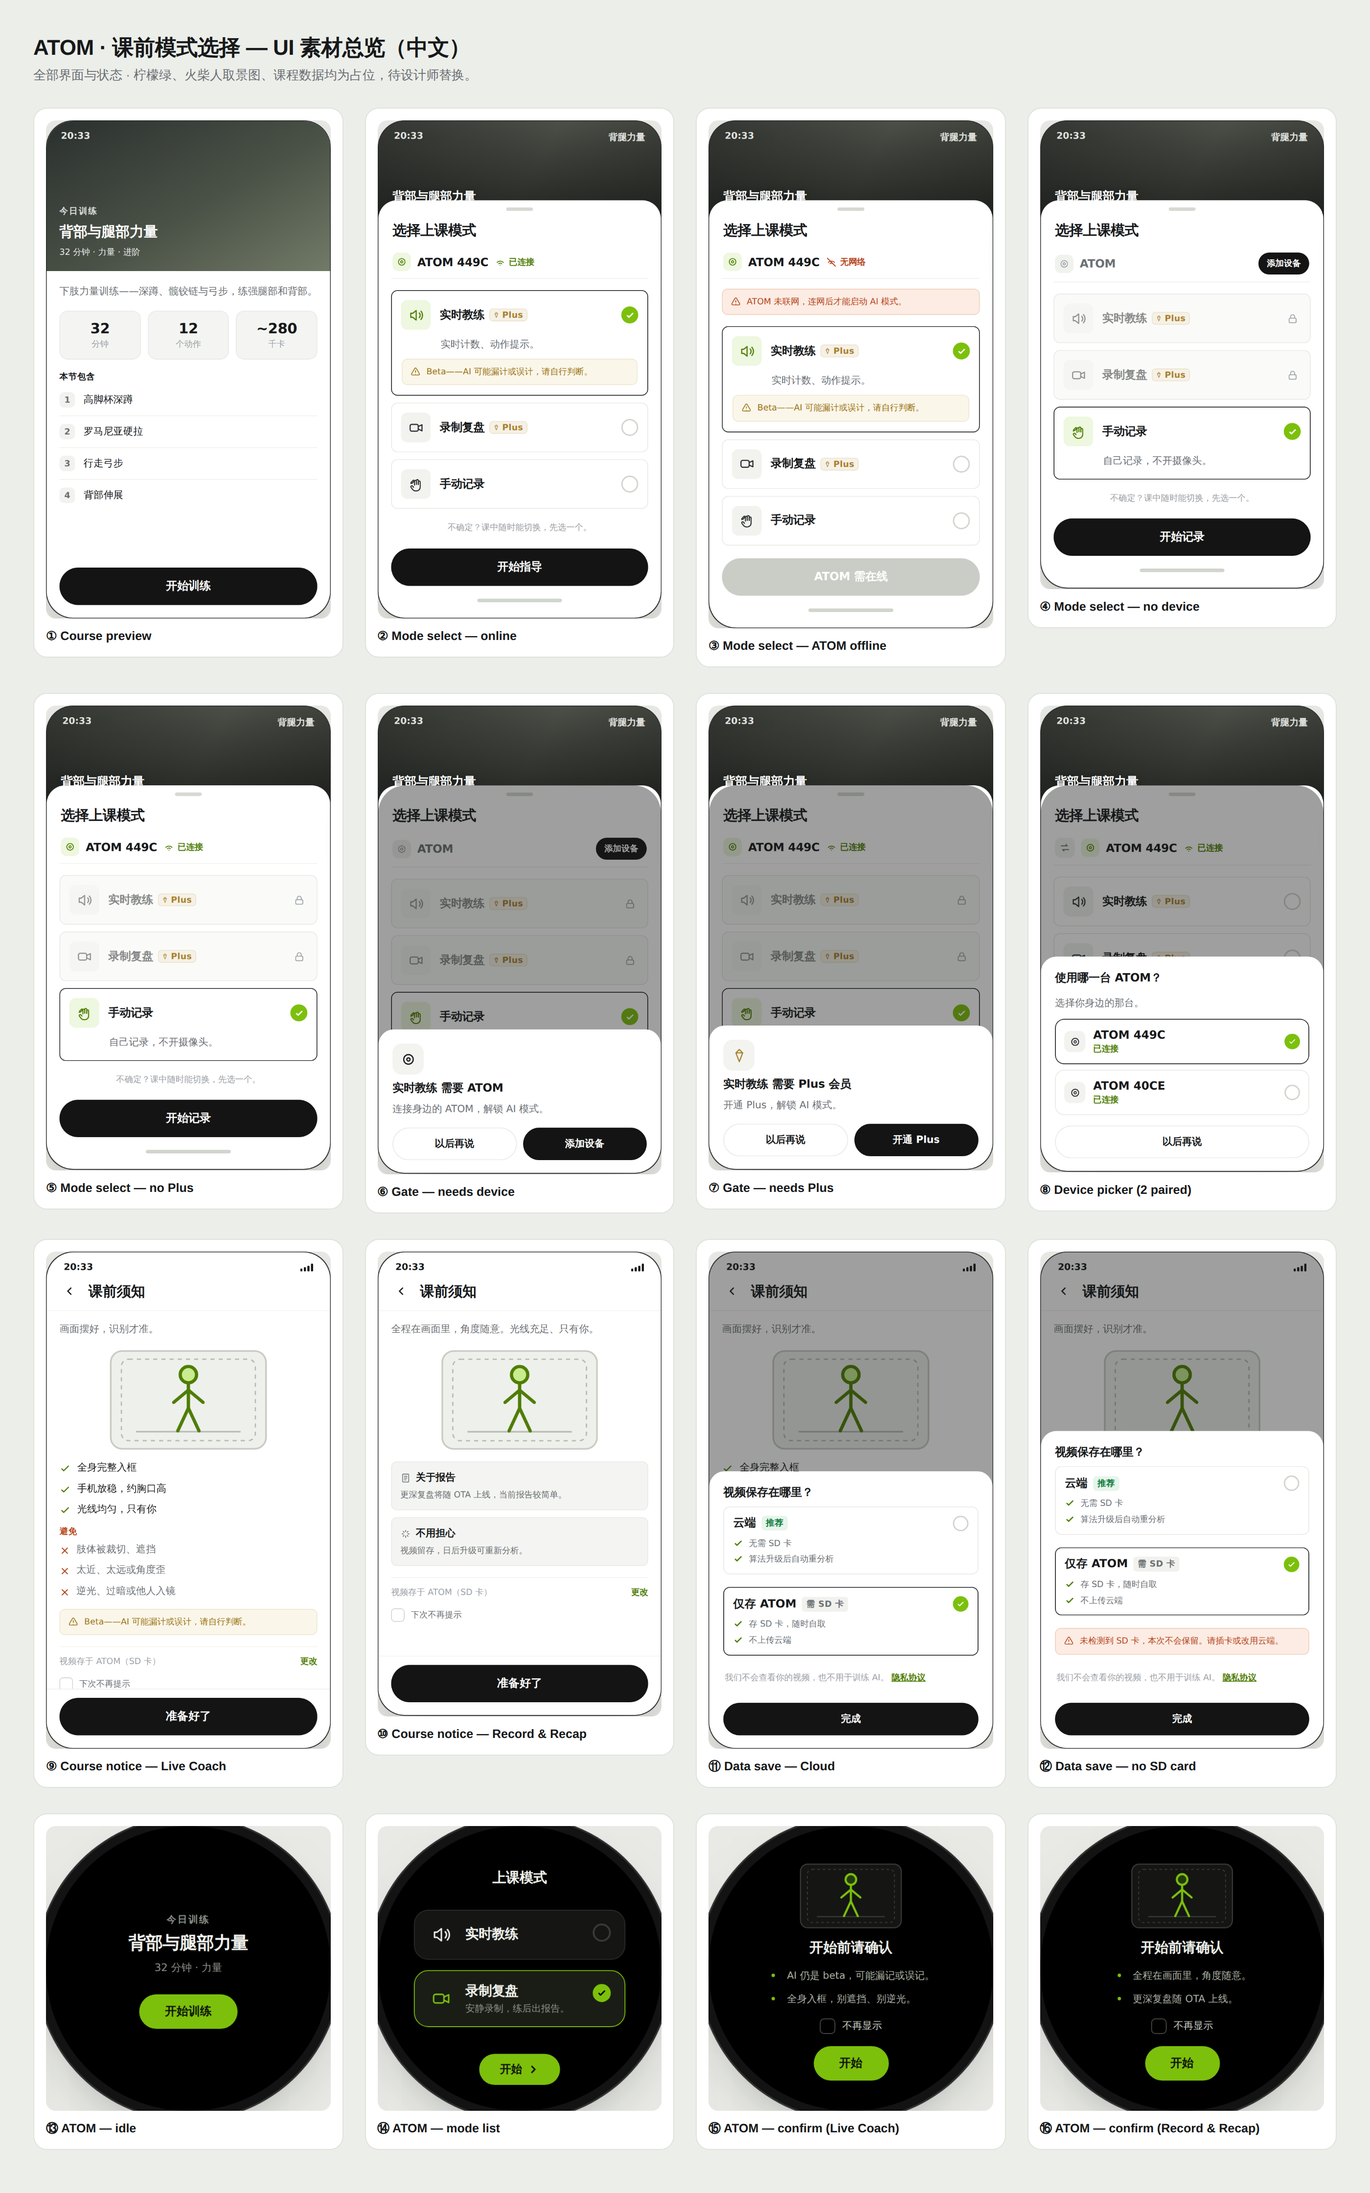
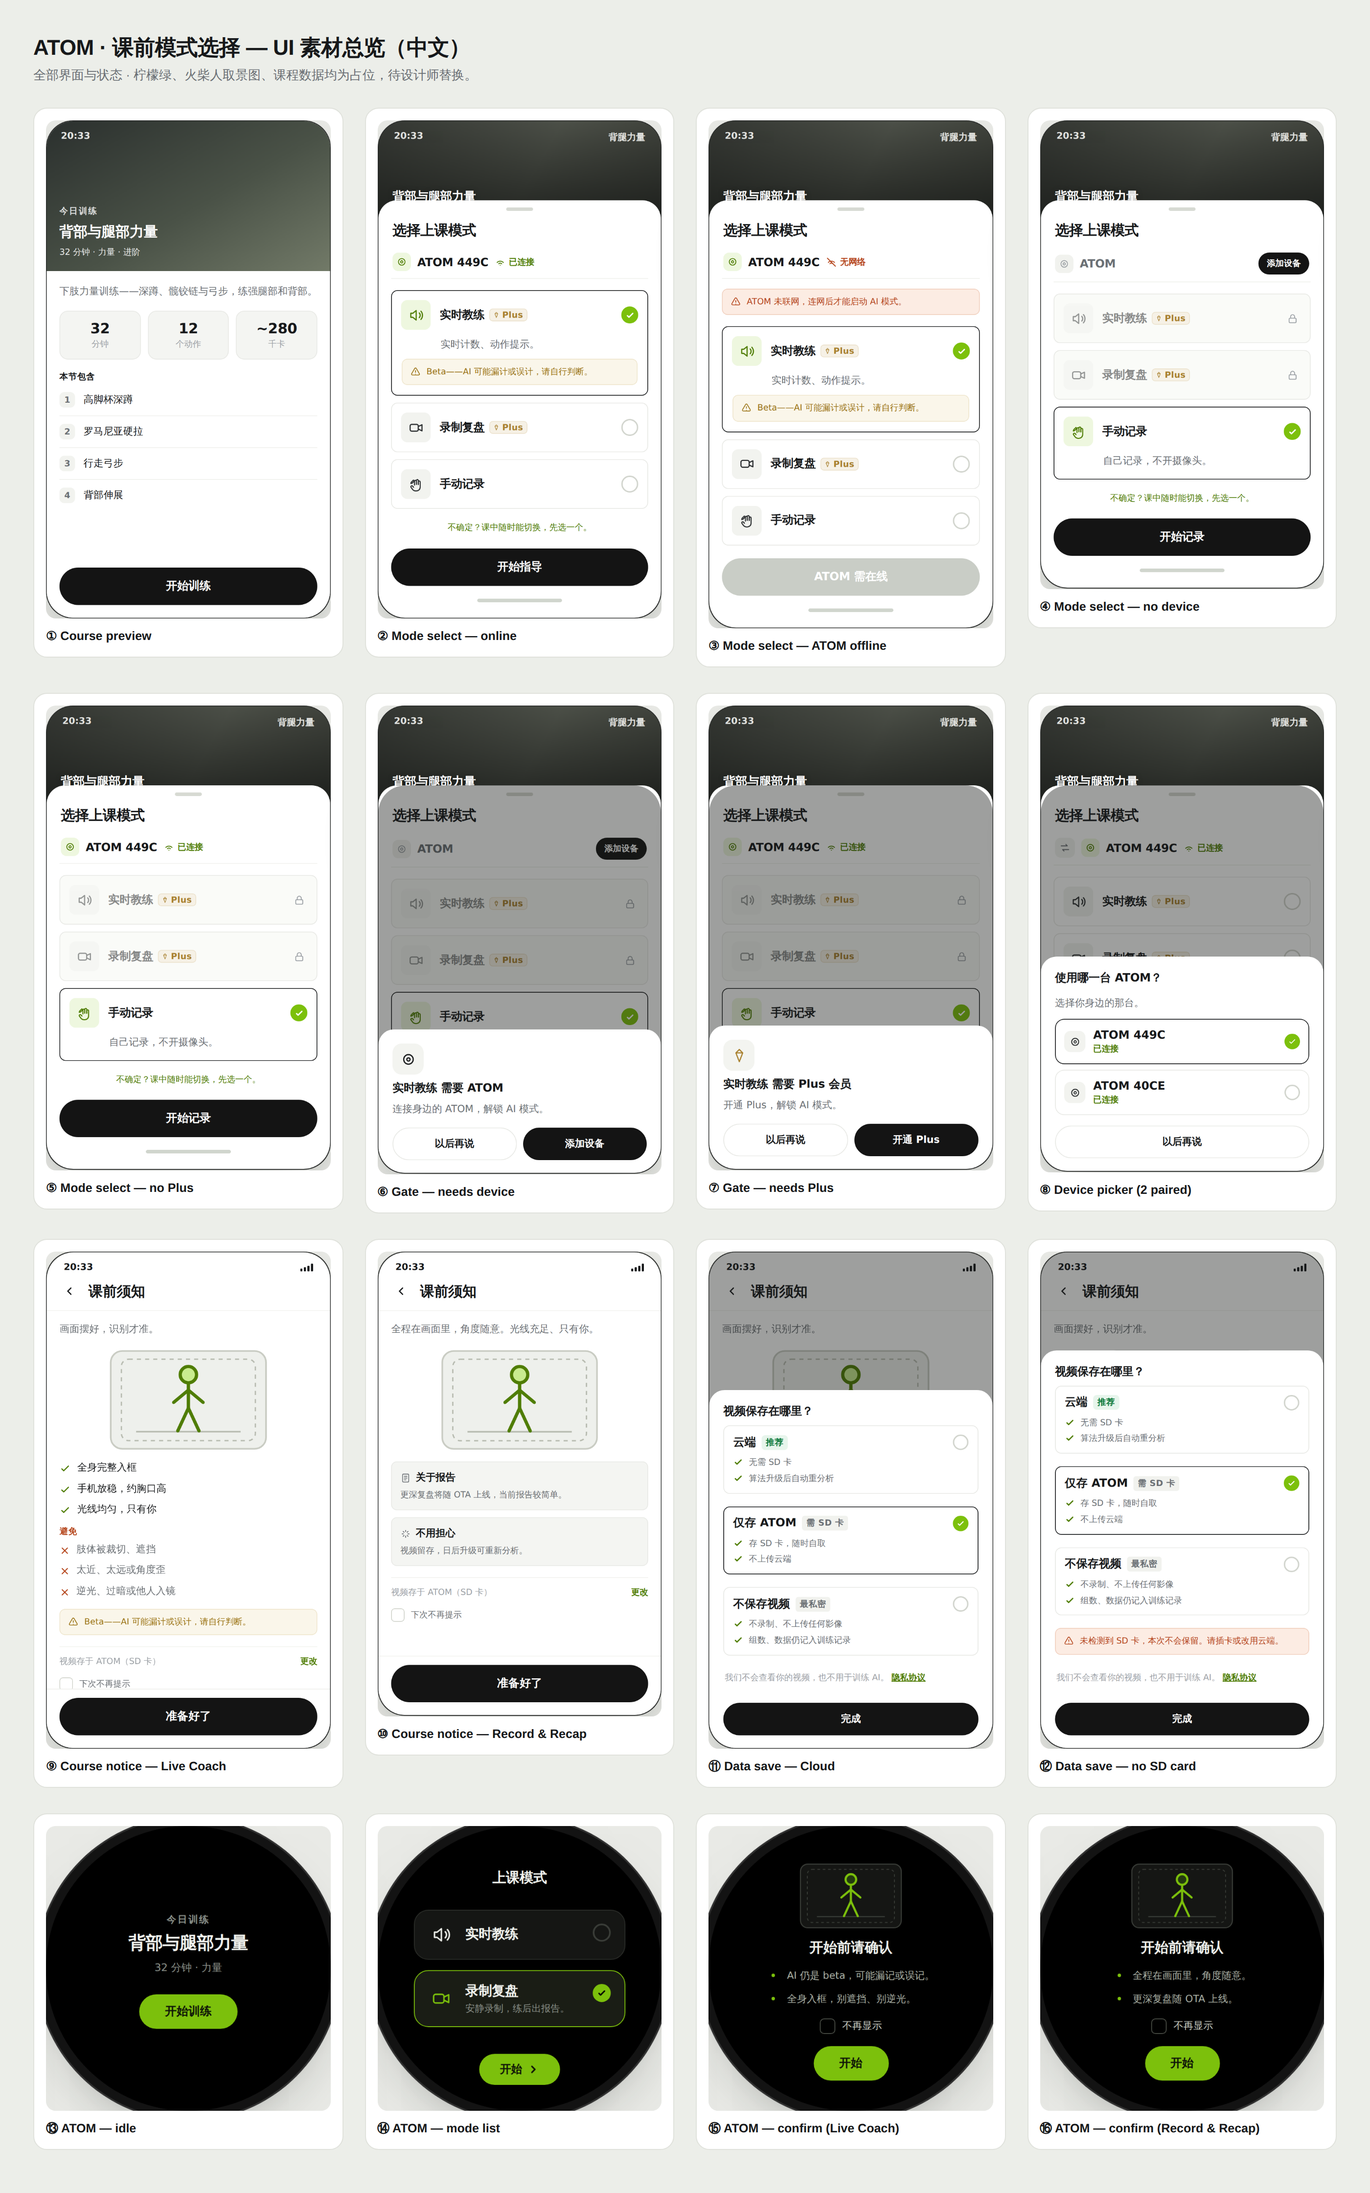
Add "Don't save video" data option (privacy ladder) + refresh spec
- Third data-save option "Don't save video / 不保存视频" (Most private):
  nothing recorded or uploaded; reps & stats are still logged. Privacy
  ladder: Cloud → Keep on ATOM → Don't save.
- Mode-aware: in Record & Recap, choosing it shows a caveat ("no recap
  report — use Live Coach for pure real-time") and the notice's report/algo
  reassurance collapses to that caveat. Applied to all 3 prototypes.
- PRD documents the option + the open question (keep in Recap w/ caveat vs
  Live-Coach-only). Regenerated UI spec sheets (EN/ZH).

Claude-Session: https://claude.ai/code/session_014PR3u6XwyoxidkFV3YCNB7

Changed region(s): [[0.4971, 0.5935, 0.9632, 0.7497], [0.9321, 0.6872, 0.9632, 0.7184]]

diff --git a/workout-mode-selection/prototype-demo.html b/workout-mode-selection/prototype-demo.html
@@ -541,6 +541,10 @@
       dLocalNeedsSd:'Needs SD card',
       dCloudBenefits:['No SD card needed','Auto re-analyzed as AI improves'],
       dLocalBenefits:['On the SD card — copy off anytime','Not uploaded'],
+      dNoneName:'Don’t save video', dNonePrivate:'Most private',
+      dNoneBenefits:['Nothing is recorded or uploaded','Your reps & stats are still logged'],
+      drNone:'Video isn’t saved — real-time only',
+      recapNoReport:'No recap report without a saved video — use Live Coach for pure real-time.',
       privacyNote:"We don't view your videos or use your data to train our AI.",
       privacyLink:'Privacy Policy',
       drCloud:'Saved to your cloud', drLocal:'Saved on ATOM (SD card)', drNoSd:"Won't be saved — no SD card",
@@ -584,6 +588,10 @@
       dLocalNeedsSd:'需 SD 卡',
       dCloudBenefits:['无需 SD 卡','算法升级后自动重分析'],
       dLocalBenefits:['存 SD 卡，随时自取','不上传云端'],
+      dNoneName:'不保存视频', dNonePrivate:'最私密',
+      dNoneBenefits:['不录制、不上传任何影像','组数、数据仍记入训练记录'],
+      drNone:'不保存视频（仅实时）',
+      recapNoReport:'不保存视频就没有复盘报告；想要纯实时可用 Live Coach。',
       privacyNote:'我们不会查看你的视频，也不用于训练 AI。',
       privacyLink:'隐私协议',
       drCloud:'视频同步到云端', drLocal:'视频存于 ATOM（SD 卡）', drNoSd:'不会保存——无 SD 卡',
@@ -686,7 +694,7 @@
   function _info(icon,h,txt){ return '<div class="infobox"><div class="ih">'+icon+'<span>'+h+'</span></div><span>'+txt+'</span></div>'; }
   function _datarow(t){
     var warn=dataChoice==='local'&&!SDCARD, txt;
-    if(dataChoice==='cloud') txt=t.drCloud; else if(SDCARD) txt=t.drLocal; else txt=t.drNoSd;
+    if(dataChoice==='cloud') txt=t.drCloud; else if(dataChoice==='none') txt=t.drNone; else if(SDCARD) txt=t.drLocal; else txt=t.drNoSd;
     return '<div class="dataline'+(warn?' warn':'')+'" id="ps-datarow"><span>'+txt+'</span><span class="drchange">'+t.drChange+'</span></div>';
   }
   function _dontrow(t){ return '<div class="dontrow'+(psSkip?' on':'')+'" id="ps-dont"><span class="box">'+CHKM+'</span><span>'+t.dontShow+'</span></div>'; }
@@ -702,9 +710,9 @@
         +_sec(t.coachAvoidH,true)+_avoid(t.coachAvoid)
         +'<div class="caution" style="margin-top:14px">'+WARNI+'<span>'+t.beta+'</span></div>';
     } else {
-      h+='<div class="pagesub">'+t.recapSub+'</div>'+FRAME_LIGHT
-        +_info(REPORTI,t.reportH,t.report)
-        +_info(ALGOI,t.algoH,t.algo);
+      h+='<div class="pagesub">'+t.recapSub+'</div>'+FRAME_LIGHT;
+      if(dataChoice==='none') h+=_info(REPORTI,t.reportH,t.recapNoReport);
+      else h+=_info(REPORTI,t.reportH,t.report)+_info(ALGOI,t.algoH,t.algo);
     }
     h+=_datarow(t)+_dontrow(t);
     psBody.innerHTML=h; prestart.classList.add('show'); if(!keep) psBody.scrollTop=0;
@@ -718,6 +726,8 @@
   var datasheet=document.getElementById('datasheet'), dsCard=document.getElementById('datasheet-card');
   function openDataSheet(){
     var t=T[LANG]; var warn=dataChoice==='local'&&!SDCARD;
+    var selM=sheet.querySelector('.mode.sel'); var mode=selM?selM.getAttribute('data-mode'):'coach';
+    var noReport=dataChoice==='none'&&mode==='recap';
     function card(key,name,rec,badge,benefits){
       var s=dataChoice===key;
       var lis=benefits.map(function(x){return '<li>'+CHKM+'<span>'+x+'</span></li>';}).join('');
@@ -727,7 +737,9 @@
     dsCard.innerHTML='<div class="pt">'+t.dataSheetT+'</div>'
       +card('cloud',t.dCloudName,true,null,t.dCloudBenefits)
       +card('local',t.dLocalName,false,t.dLocalNeedsSd,t.dLocalBenefits)
+      +card('none',t.dNoneName,false,t.dNonePrivate,t.dNoneBenefits)
       +(warn?'<div class="datanote warn" style="margin-bottom:10px">'+WARNI+'<span>'+t.dataNoSdWarn+'</span></div>':'')
+      +(noReport?'<div class="datanote warn" style="margin-bottom:10px">'+WARNI+'<span>'+t.recapNoReport+'</span></div>':'')
       +'<div class="privacy">'+t.privacyNote+' <a>'+t.privacyLink+'</a></div>'
       +'<div class="pbtns"><div class="pb primary" id="ds-done">'+t.dDone+'</div></div>';
     dsCard.querySelectorAll('.dcard').forEach(function(c){ c.onclick=function(){ dataChoice=c.getAttribute('data-d'); openDataSheet(); }; });

diff --git a/workout-mode-selection/prototype-mobile.html b/workout-mode-selection/prototype-mobile.html
@@ -495,6 +495,10 @@
       dLocalNeedsSd:'Needs SD card',
       dCloudBenefits:['No SD card needed','Auto re-analyzed as AI improves'],
       dLocalBenefits:['On the SD card — copy off anytime','Not uploaded'],
+      dNoneName:'Don’t save video', dNonePrivate:'Most private',
+      dNoneBenefits:['Nothing is recorded or uploaded','Your reps & stats are still logged'],
+      drNone:'Video isn’t saved — real-time only',
+      recapNoReport:'No recap report without a saved video — use Live Coach for pure real-time.',
       privacyNote:"We don't view your videos or use your data to train our AI.",
       privacyLink:'Privacy Policy',
       drCloud:'Saved to your cloud', drLocal:'Saved on ATOM (SD card)', drNoSd:"Won't be saved — no SD card",
@@ -534,6 +538,10 @@
       dLocalNeedsSd:'需 SD 卡',
       dCloudBenefits:['无需 SD 卡','算法升级后自动重分析'],
       dLocalBenefits:['存 SD 卡，随时自取','不上传云端'],
+      dNoneName:'不保存视频', dNonePrivate:'最私密',
+      dNoneBenefits:['不录制、不上传任何影像','组数、数据仍记入训练记录'],
+      drNone:'不保存视频（仅实时）',
+      recapNoReport:'不保存视频就没有复盘报告；想要纯实时可用 Live Coach。',
       privacyNote:'我们不会查看你的视频，也不用于训练 AI。',
       privacyLink:'隐私协议',
       drCloud:'视频同步到云端', drLocal:'视频存于 ATOM（SD 卡）', drNoSd:'不会保存——无 SD 卡',
@@ -632,7 +640,7 @@
   function _info(icon,h,txt){ return '<div class="infobox"><div class="ih">'+icon+'<span>'+h+'</span></div><span>'+txt+'</span></div>'; }
   function _datarow(t){
     var warn=dataChoice==='local'&&!SDCARD, txt;
-    if(dataChoice==='cloud') txt=t.drCloud; else if(SDCARD) txt=t.drLocal; else txt=t.drNoSd;
+    if(dataChoice==='cloud') txt=t.drCloud; else if(dataChoice==='none') txt=t.drNone; else if(SDCARD) txt=t.drLocal; else txt=t.drNoSd;
     return '<div class="dataline'+(warn?' warn':'')+'" id="ps-datarow"><span>'+txt+'</span><span class="drchange">'+t.drChange+'</span></div>';
   }
   function _dontrow(t){ return '<div class="dontrow'+(psSkip?' on':'')+'" id="ps-dont"><span class="box">'+CHKM+'</span><span>'+t.dontShow+'</span></div>'; }
@@ -648,9 +656,9 @@
         +_sec(t.coachAvoidH,true)+_avoid(t.coachAvoid)
         +'<div class="caution" style="margin-top:14px">'+WARNI+'<span>'+t.beta+'</span></div>';
     } else {
-      h+='<div class="pagesub">'+t.recapSub+'</div>'+FRAME_LIGHT
-        +_info(REPORTI,t.reportH,t.report)
-        +_info(ALGOI,t.algoH,t.algo);
+      h+='<div class="pagesub">'+t.recapSub+'</div>'+FRAME_LIGHT;
+      if(dataChoice==='none') h+=_info(REPORTI,t.reportH,t.recapNoReport);
+      else h+=_info(REPORTI,t.reportH,t.report)+_info(ALGOI,t.algoH,t.algo);
     }
     h+=_datarow(t)+_dontrow(t);
     psBody.innerHTML=h; prestart.classList.add('show'); if(!keep) psBody.scrollTop=0;
@@ -664,6 +672,8 @@
   var datasheet=document.getElementById('datasheet'), dsCard=document.getElementById('datasheet-card');
   function openDataSheet(){
     var t=T[LANG]; var warn=dataChoice==='local'&&!SDCARD;
+    var selM=sheet.querySelector('.mode.sel'); var mode=selM?selM.getAttribute('data-mode'):'coach';
+    var noReport=dataChoice==='none'&&mode==='recap';
     function card(key,name,rec,badge,benefits){
       var s=dataChoice===key;
       var lis=benefits.map(function(x){return '<li>'+CHKM+'<span>'+x+'</span></li>';}).join('');
@@ -673,7 +683,9 @@
     dsCard.innerHTML='<div class="pt">'+t.dataSheetT+'</div>'
       +card('cloud',t.dCloudName,true,null,t.dCloudBenefits)
       +card('local',t.dLocalName,false,t.dLocalNeedsSd,t.dLocalBenefits)
+      +card('none',t.dNoneName,false,t.dNonePrivate,t.dNoneBenefits)
       +(warn?'<div class="datanote warn" style="margin-bottom:10px">'+WARNI+'<span>'+t.dataNoSdWarn+'</span></div>':'')
+      +(noReport?'<div class="datanote warn" style="margin-bottom:10px">'+WARNI+'<span>'+t.recapNoReport+'</span></div>':'')
       +'<div class="privacy">'+t.privacyNote+' <a>'+t.privacyLink+'</a></div>'
       +'<div class="pbtns"><div class="pb primary" id="ds-done">'+t.dDone+'</div></div>';
     dsCard.querySelectorAll('.dcard').forEach(function(c){ c.onclick=function(){ dataChoice=c.getAttribute('data-d'); openDataSheet(); }; });

diff --git a/workout-mode-selection/prototype-课前模式选择.html b/workout-mode-selection/prototype-课前模式选择.html
@@ -463,6 +463,10 @@
       dLocalNeedsSd:'Needs SD card',
       dCloudBenefits:['No SD card needed','Auto re-analyzed as AI improves'],
       dLocalBenefits:['On the SD card — copy off anytime','Not uploaded'],
+      dNoneName:'Don’t save video', dNonePrivate:'Most private',
+      dNoneBenefits:['Nothing is recorded or uploaded','Your reps & stats are still logged'],
+      drNone:'Video isn’t saved — real-time only',
+      recapNoReport:'No recap report without a saved video — use Live Coach for pure real-time.',
       privacyNote:"We don't view your videos or use your data to train our AI.",
       privacyLink:'Privacy Policy',
       drCloud:'Saved to your cloud', drLocal:'Saved on ATOM (SD card)', drNoSd:"Won't be saved — no SD card",
@@ -502,6 +506,10 @@
       dLocalNeedsSd:'需 SD 卡',
       dCloudBenefits:['无需 SD 卡','算法升级后自动重分析'],
       dLocalBenefits:['存 SD 卡，随时自取','不上传云端'],
+      dNoneName:'不保存视频', dNonePrivate:'最私密',
+      dNoneBenefits:['不录制、不上传任何影像','组数、数据仍记入训练记录'],
+      drNone:'不保存视频（仅实时）',
+      recapNoReport:'不保存视频就没有复盘报告；想要纯实时可用 Live Coach。',
       privacyNote:'我们不会查看你的视频，也不用于训练 AI。',
       privacyLink:'隐私协议',
       drCloud:'视频同步到云端', drLocal:'视频存于 ATOM（SD 卡）', drNoSd:'不会保存——无 SD 卡',
@@ -600,7 +608,7 @@
   function _info(icon,h,txt){ return '<div class="infobox"><div class="ih">'+icon+'<span>'+h+'</span></div><span>'+txt+'</span></div>'; }
   function _datarow(t){
     var warn=dataChoice==='local'&&!SDCARD, txt;
-    if(dataChoice==='cloud') txt=t.drCloud; else if(SDCARD) txt=t.drLocal; else txt=t.drNoSd;
+    if(dataChoice==='cloud') txt=t.drCloud; else if(dataChoice==='none') txt=t.drNone; else if(SDCARD) txt=t.drLocal; else txt=t.drNoSd;
     return '<div class="dataline'+(warn?' warn':'')+'" id="ps-datarow"><span>'+txt+'</span><span class="drchange">'+t.drChange+'</span></div>';
   }
   function _dontrow(t){ return '<div class="dontrow'+(psSkip?' on':'')+'" id="ps-dont"><span class="box">'+CHKM+'</span><span>'+t.dontShow+'</span></div>'; }
@@ -616,9 +624,9 @@
         +_sec(t.coachAvoidH,true)+_avoid(t.coachAvoid)
         +'<div class="caution" style="margin-top:14px">'+WARNI+'<span>'+t.beta+'</span></div>';
     } else {
-      h+='<div class="pagesub">'+t.recapSub+'</div>'+FRAME_LIGHT
-        +_info(REPORTI,t.reportH,t.report)
-        +_info(ALGOI,t.algoH,t.algo);
+      h+='<div class="pagesub">'+t.recapSub+'</div>'+FRAME_LIGHT;
+      if(dataChoice==='none') h+=_info(REPORTI,t.reportH,t.recapNoReport);
+      else h+=_info(REPORTI,t.reportH,t.report)+_info(ALGOI,t.algoH,t.algo);
     }
     h+=_datarow(t)+_dontrow(t);
     psBody.innerHTML=h; prestart.classList.add('show'); if(!keep) psBody.scrollTop=0;
@@ -632,6 +640,8 @@
   var datasheet=document.getElementById('datasheet'), dsCard=document.getElementById('datasheet-card');
   function openDataSheet(){
     var t=T[LANG]; var warn=dataChoice==='local'&&!SDCARD;
+    var selM=sheet.querySelector('.mode.sel'); var mode=selM?selM.getAttribute('data-mode'):'coach';
+    var noReport=dataChoice==='none'&&mode==='recap';
     function card(key,name,rec,badge,benefits){
       var s=dataChoice===key;
       var lis=benefits.map(function(x){return '<li>'+CHKM+'<span>'+x+'</span></li>';}).join('');
@@ -641,7 +651,9 @@
     dsCard.innerHTML='<div class="pt">'+t.dataSheetT+'</div>'
       +card('cloud',t.dCloudName,true,null,t.dCloudBenefits)
       +card('local',t.dLocalName,false,t.dLocalNeedsSd,t.dLocalBenefits)
+      +card('none',t.dNoneName,false,t.dNonePrivate,t.dNoneBenefits)
       +(warn?'<div class="datanote warn" style="margin-bottom:10px">'+WARNI+'<span>'+t.dataNoSdWarn+'</span></div>':'')
+      +(noReport?'<div class="datanote warn" style="margin-bottom:10px">'+WARNI+'<span>'+t.recapNoReport+'</span></div>':'')
       +'<div class="privacy">'+t.privacyNote+' <a>'+t.privacyLink+'</a></div>'
       +'<div class="pbtns"><div class="pb primary" id="ds-done">'+t.dDone+'</div></div>';
     dsCard.querySelectorAll('.dcard').forEach(function(c){ c.onclick=function(){ dataChoice=c.getAttribute('data-d'); openDataSheet(); }; });

diff --git a/workout-mode-selection/PRD-课前模式选择.md b/workout-mode-selection/PRD-课前模式选择.md
@@ -115,6 +115,8 @@
   - **云端（推荐，默认）**：① 无需 SD 卡；② 算法升级后自动重新分析、结果自动刷新。用正向收益引导。弹窗内附**隐私说明**：「我们不会主动查看你的视频，也不会用你的数据训练 AI」+ **隐私协议**链接。
   - **仅存 ATOM**（标注 **需 SD 卡**）：视频存 ATOM 的 SD 卡，可自行拷走，不上传云端。
   - 选「仅存 ATOM」但**未检测到 SD 卡** → 告警「本次训练不会被保留」（当前为提醒，不硬拦）。
+  - **不保存视频**（标注 **最私密**）：不录制、不上传、不本地保存任何影像；**组数/次数/重量等训练数据仍会记入训练历史**（不保存的只是「视频」，不是「训练记录」）。隐私阶梯：云端 → 仅存 ATOM → 不保存。
+    - 与模式相关：**Live Coach** 契合（纯实时，不留录像）；**Record & Recap** 的核心是「录制→复盘报告→日后再分析」，选「不保存」会**失去复盘报告**——当前设计在 Recap 里保留该选项但**明确提示**「不保存就没有复盘报告，想要纯实时可用 Live Coach」，且课前须知的「报告/留存」说明会相应变为该提示。（备选：Recap 里直接隐藏此选项，仅 Live Coach 提供。待定。）
   - 选择会被**记住**作为偏好，不必每次重选。
 - **「下次不再提示」**：整页级勾选；勾了以后点开始直接进入训练（用记住的数据偏好）。
 - **视觉（仅 App）**：Action button 与选项卡片用**较小圆角**（锐利风格）；ATOM 设备端维持自身风格。
